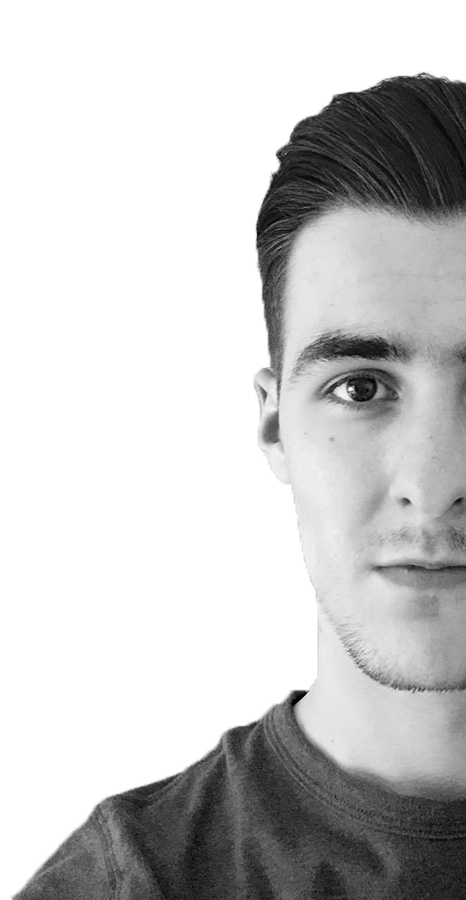
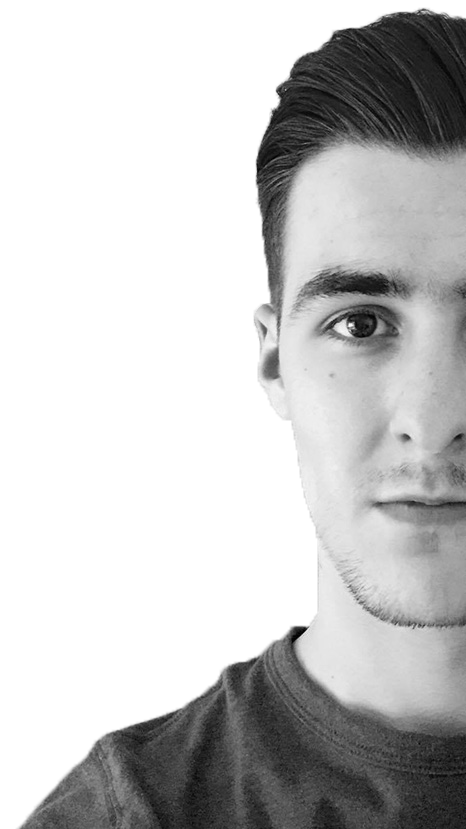
Added section home-about

diff --git a/build/index.html b/build/index.html
@@ -10,7 +10,7 @@
   <h1 class="hidden" aria-level="1" role="heading">Anthony Beaumecker</h1>
     <nav class="nav">
       <h2 aria-level="2" role="heading" class="hidden">Navigation principale</h2>
-      <div class="nav__bloc wrap">
+      <div class="nav__bloc">
         <a class="nav__item" href="#">Accueil</a>
         <a class="nav__item" href="#">&Aacute; propos</a>
         <a class="nav__item" href="#">Réalisations</a>
@@ -26,21 +26,27 @@
     </header>
     <div class="wrap">
       <section class="about">
-        <h3 class="title" aria-level="3" role="heading">Qui suis-je ?</h3>
         <figure class="about__figure">
-          <img class="about__img" src="../images/me.png" width="466" height="900" alt="C'est moi">
+          <img class="about__img" src="../images/me.png" width="466" height="829" alt="C'est moi">
         </figure>
-        <p class="about__text">
-          Salut, moi c’est Anthony comme tu as pu le voir un peu plus haut ( enfin j’espère ).
-          J’ai 22 ans, beaucoup de choses me passione dans le vie dont la course à pied que je
-          pratique assez régulièrement, mais le web design en occupe la majeur partie.
-          Je maîtrise les langages de base comme HTML5 &amp; CSS3. J’utilise la méthodologie BEM
-          combiné avec SASS  STYLUS  depuis peu. Bon c’est bien beau, mais niveau back-end  ?
-          J’intègre des sites avec le CMS Wordpress et d’autres projets en PHP avec bientôt son framework Laravel.
-          La plupart du temps je code sur l’éditeur de texte Atom, qui est mon éditeur coup de coeur.
-          Envie d’en savoir plus sur mon parcours ? Mon CV n’attend plus que toi !
-        </p>
-        <a class="about__link" href="#" title="Vers mon cv">Voir mon cv</a>
+        <section class="about__bloc">
+          <h3 class="title" aria-level="3" role="heading">Qui suis-je ?</h3>
+          <p class="about__text">
+            Salut, moi c’est <strong>Anthony</strong> comme tu as pu le voir un peu plus haut ( enfin j’espère ).
+            J’ai <strong>22 ans</strong>, beaucoup de choses me passione dans le vie dont la course à pied que je
+            pratique assez régulièrement, mais le <strong>web design</strong> en occupe la majeur partie.
+          </p>
+          <p class="about__text">
+            Je maîtrise les langages de base comme <strong>HTML5</strong> &amp; <strong>CSS3</strong>. J’utilise la méthodologie <strong>BEM</strong>
+            combiné avec <strong class="coupe">SASS</strong> <strong>STYLUS</strong> depuis peu. Bon c’est bien beau, mais niveau <strong>back-end</strong> ?
+            J’intègre des sites avec le <strong>CMS Wordpress</strong> et d’autres projets en <strong>PHP</strong> avec bientôt son framework <strong>Laravel</strong>.
+            La plupart du temps je code sur l’éditeur de texte <strong>Atom</strong>, qui est mon éditeur coup de coeur.
+          </p>
+          <p class="about__text">
+            Envie d’en savoir plus sur mon parcours ? Mon <a class="underline" href="#">CV</a> n’attend plus que toi !
+          </p>
+          <a class="about__link" href="#" title="Vers mon cv">Voir mon cv</a>
+        </section>
       </section>
       <section class="works">
         <h3 class="title color" aria-level="3" role="heading">Mes dernières réalisations</h3>

diff --git a/build/css/main.css b/build/css/main.css
@@ -248,6 +248,7 @@ img
 {
     max-width: 71.25em;
     margin: 0 auto;
+    padding: 6.25em 1.25em;
 }
 .header
 {
@@ -380,4 +381,113 @@ img
 .nav:last-child
 {
     margin-right: 0;
+}
+.title
+{
+    font-family: 'montserrat';
+    font-size: 2.1875em;
+    font-weight: bold;
+
+    margin-bottom: 1.428571428571429em;
+
+    color: #2c3e50;
+}
+.title:before
+{
+    position: relative;
+    top: -.142857142857143em;
+
+    display: inline-block;
+
+    width: .857142857142857em;
+    height: .114285714285714em;
+    margin-right: .571428571428571em;
+
+    content: '';
+
+    background-color: #2c3e50;
+}
+.about
+{
+    display: -webkit-box;
+    display: -webkit-flex;
+    display: -ms-flexbox;
+    display:         flex;
+            flex-direction: row;
+
+    -webkit-box-orient: horizontal;
+    -webkit-box-direction: normal;
+    -webkit-flex-direction: row;
+        -ms-flex-direction: row;
+}
+.about:after
+{
+    display: block;
+    clear: both;
+
+    content: '';
+}
+.about__bloc
+{
+    width: 90%;
+    margin-left: 3.125em;
+    padding-bottom: 6.25em;
+}
+.about__text
+{
+    font-size: 1.125em;
+    font-weight: 100;
+    line-height: 1.6em;
+
+    margin-bottom: 2.777777777777778em;
+
+    color: #2c3e50;
+}
+.about__text:last-child
+{
+    margin-bottom: 0;
+}
+.about__text strong
+{
+    font-weight: bold;
+}
+.about__link
+{
+    font-size: 1.5625em;
+    font-weight: bold;
+
+    float: right;
+
+    padding: .8em 2.8em;
+
+    color: #fff;
+    border-radius: 2em;
+    background-color: #2c3e50;
+}
+.about__link:before
+{
+    font-family: 'icomoon';
+    font-weight: normal;
+    font-style: normal;
+    font-variant: normal;
+    line-height: 1;
+
+    margin-right: .8em;
+
+    content: '\e900';
+    text-transform: none;
+
+    speak: none;
+    -webkit-font-smoothing: antialiased;
+    -moz-osx-font-smoothing: grayscale;
+}
+.coupe
+{
+    text-decoration: line-through;
+}
+.underline
+{
+    font-weight: bold;
+
+    text-decoration: underline;
 }
